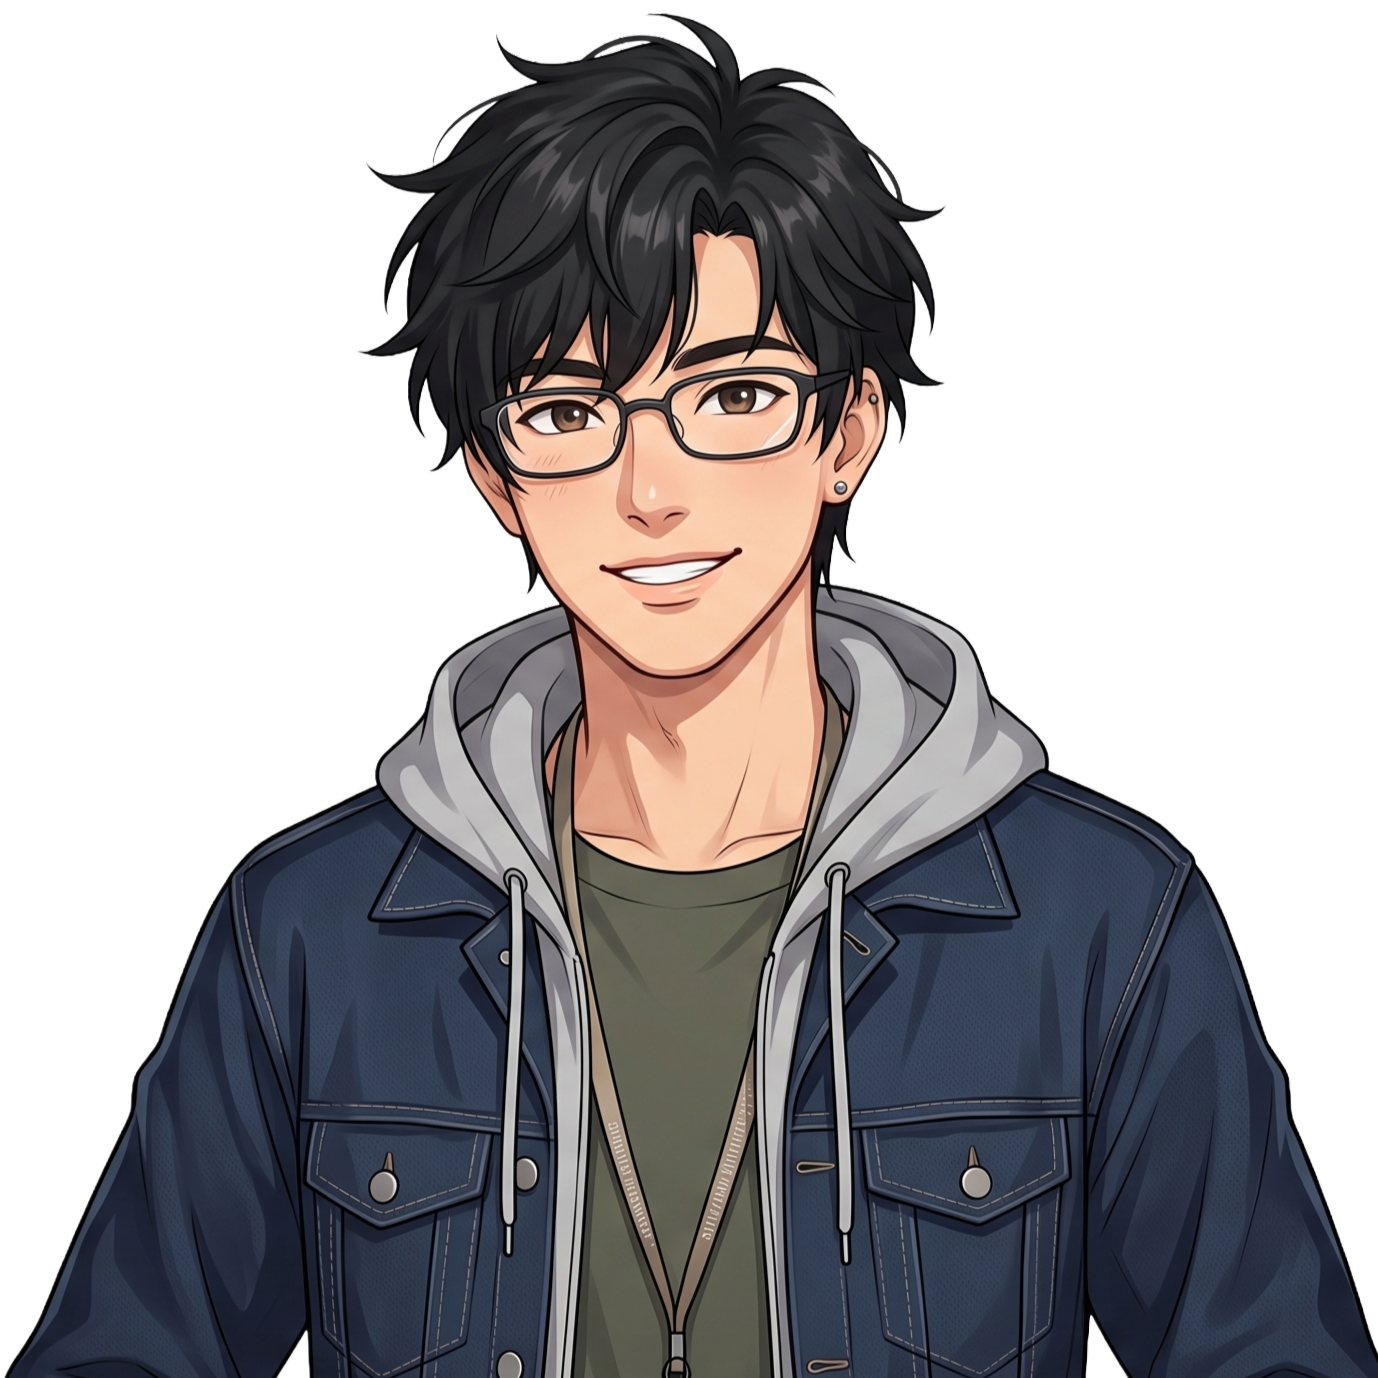
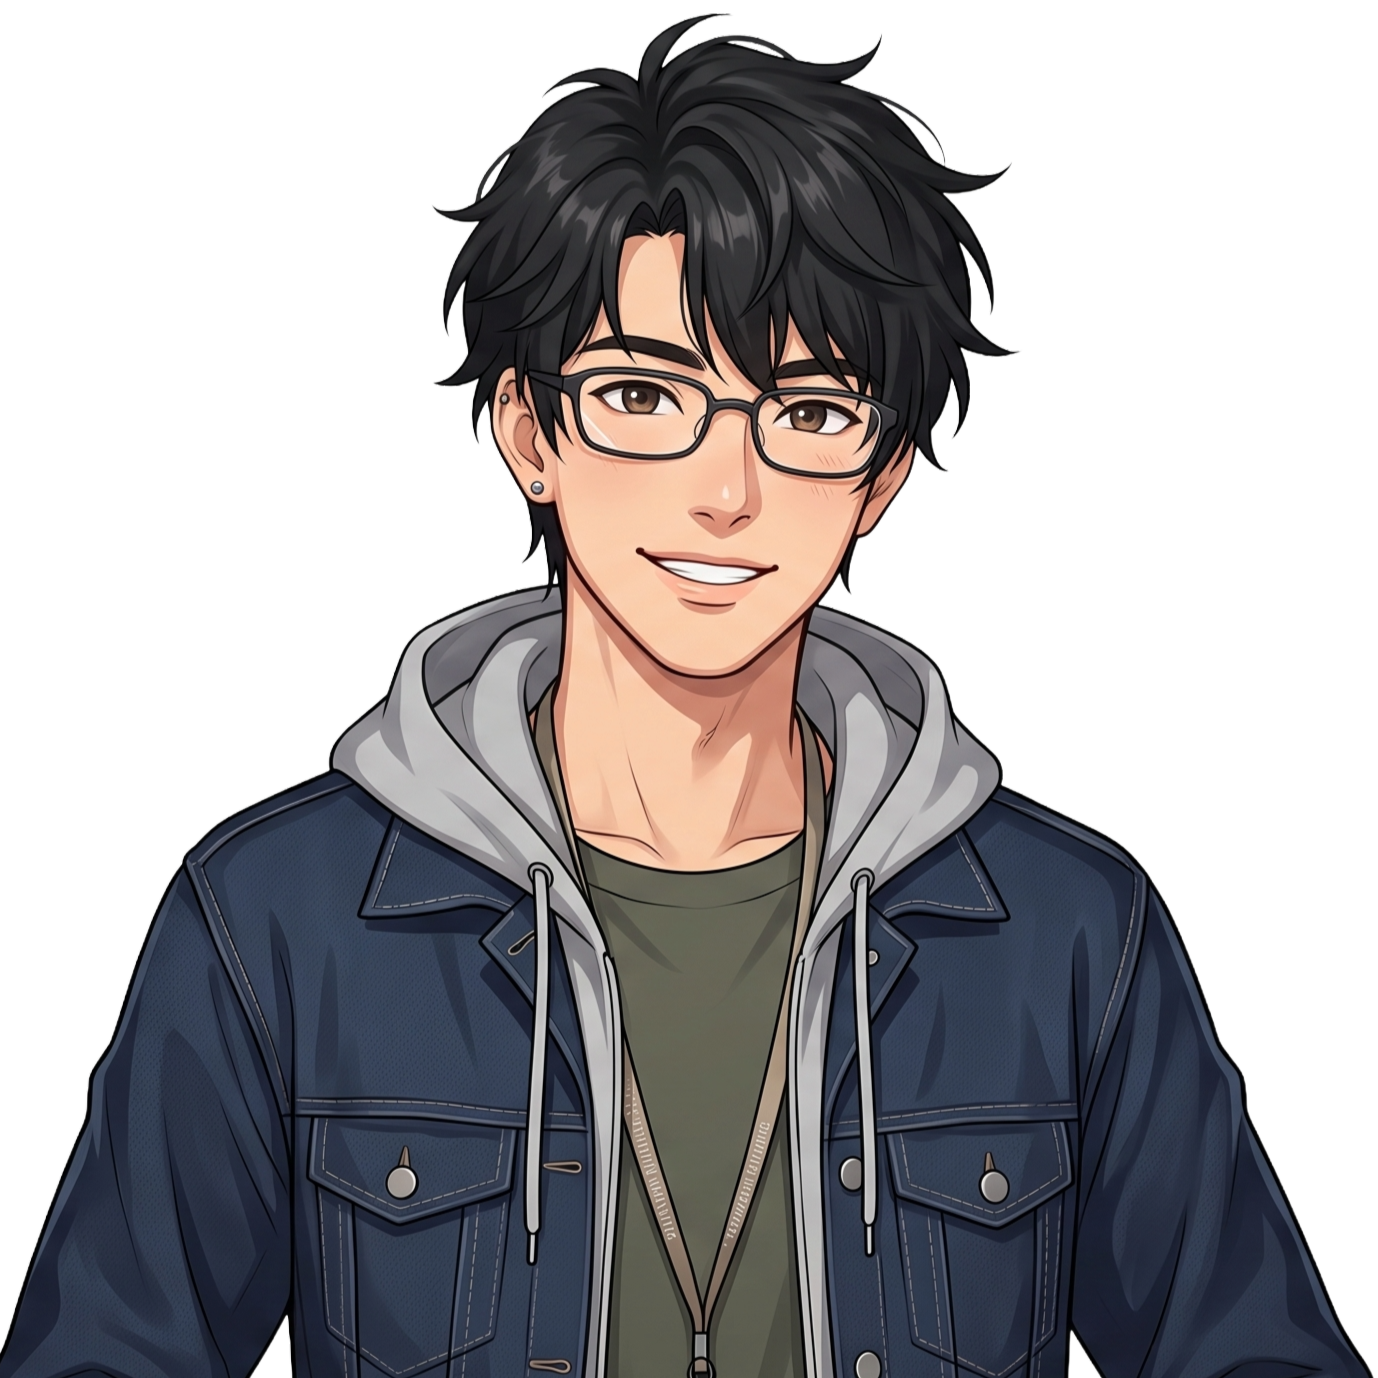
Added phd portrait assets

Changed region(s): [[0.0, 0.0, 1.0, 1.0]]

diff --git a/src/storydata/assetData.ts b/src/storydata/assetData.ts
@@ -8,11 +8,15 @@ import cafe from "../../assets/backgrounds/BackgroundCafe.png";
 // Character portraits
 import pip from "../../assets/characters/Sphere.png";
 import mayra from "../../assets/characters/StudentPortrait.png";
-import phd from "../../assets/characters/PhdPortrait.png";
 import mayraShocked from "../../assets/characters/StudentShocked.png";
 import mayraStressed from "../../assets/characters/StudentStressed.png";
 import mayraThinking from "../../assets/characters/StudentThinking.png";
 import mayraWorried from "../../assets/characters/StudentWorried.png";
+import phd from "../../assets/characters/PhdPortrait.png";
+import phdNeutral from "../../assets/characters/PhdNeutral.png";
+import phdThinking from "../../assets/characters/PhdThinking.png";
+import phdWorried from "../../assets/characters/PhdWorried.png";
+import phdShocked from "../../assets/characters/PhdShocked.png";
 import noah from "../../assets/characters/MaleStudent.png";
 import noahThinking from "../../assets/characters/MaleStudentThinking.png";
 import noahSurprised from "../../assets/characters/MaleStudentSurprised.png";
@@ -38,11 +42,15 @@ export const backgrounds = { // Add background assets here
 export const characters = { // Add character assets here
   pip,
   mayra,
-  phd,
   mayraShocked,
   mayraStressed,
   mayraThinking,
   mayraWorried,
+  phd,
+  phdNeutral,
+  phdThinking,
+  phdWorried,
+  phdShocked,
   noah,
   noahThinking,
   noahSurprised,

diff --git a/src/storydata/dialogueData.ts b/src/storydata/dialogueData.ts
@@ -2498,7 +2498,15 @@ export const phdIntroDialogue: SceneNode[] = [
     id: 'start',
     text: 'Your phd journey is starting now.',
     speaker: 'Narrator',
+    location: 'office',
+    nextId: 'phd_0',
   },
+  {
+    id: 'phd_0',
+    text: `Hello! It is me, ${phdName}. Is someone there?`,
+    speaker: `${phdName}`,
+    characterRight: 'phd',
+  }
 ]
 
 // ___________ Dialogue Data End ____________
